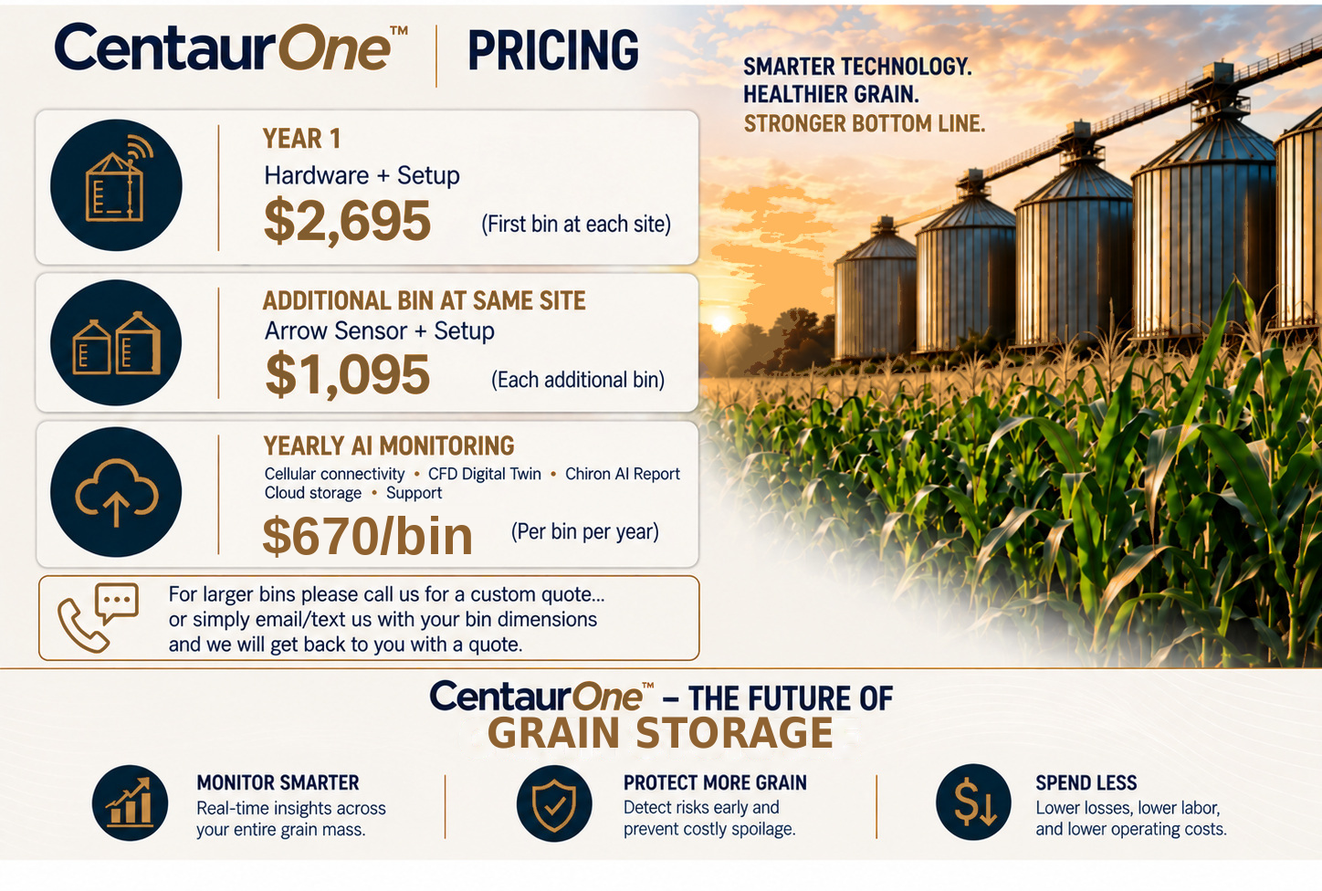
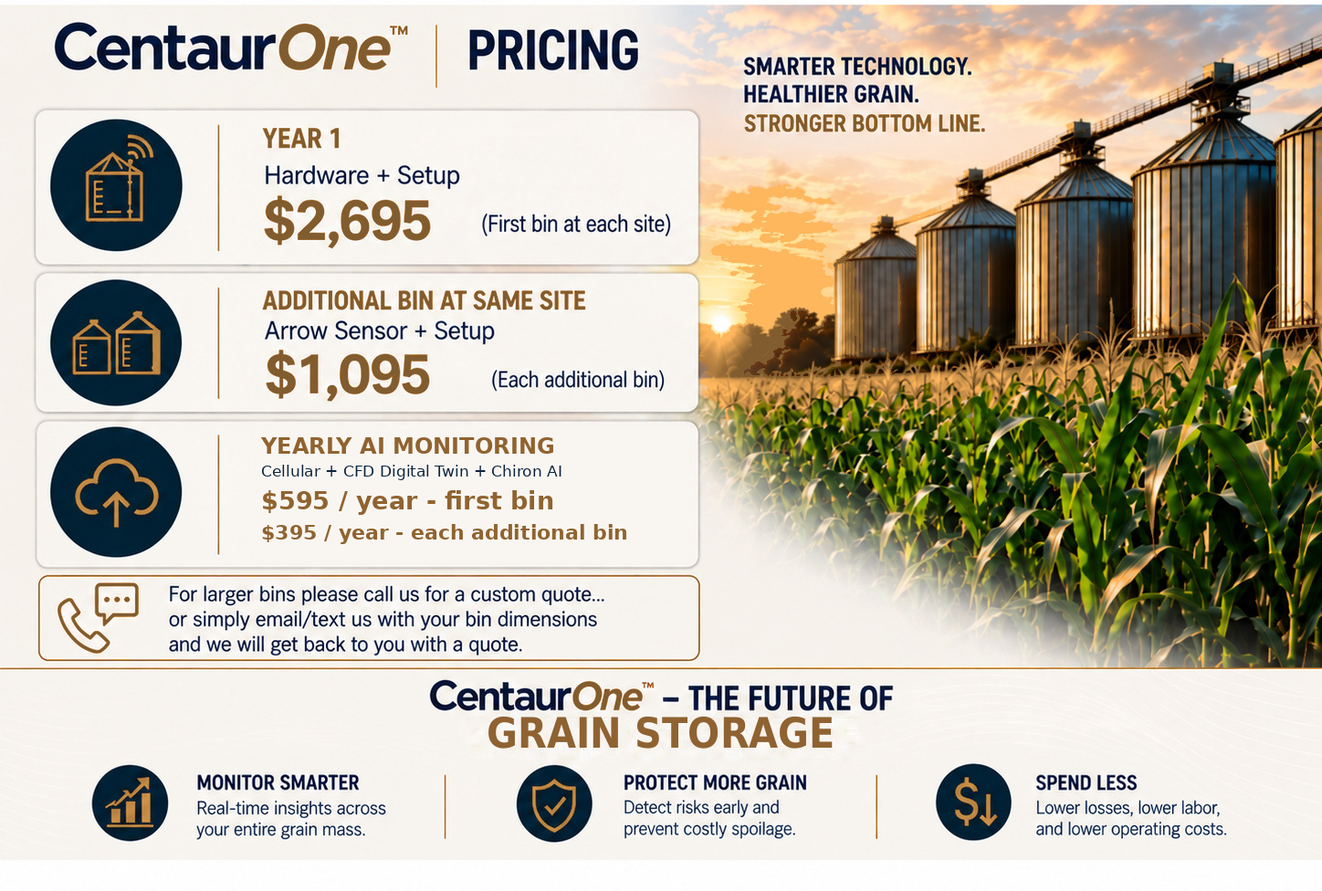
Add files via upload

Changed region(s): [[0.1865, 0.4918, 0.5283, 0.6455]]

diff --git a/grain-monitoring-system-pricing.html b/grain-monitoring-system-pricing.html
@@ -410,6 +410,10 @@ html{scroll-behavior:smooth}#chiron{scroll-margin-top:12px}
 .payback-panel .payback-conclusion{text-align:center;margin:20px 0 12px;font-size:17px}
 .payback-panel .payback-note{font-size:12px;line-height:1.6;color:#526170;margin:16px 0 0}
 @media(max-width:700px){.payback-panel{padding:16px 12px}.payback-bar-row{grid-template-columns:1fr 70px;gap:6px 9px}.payback-name{grid-column:1/-1}.payback-track{grid-column:1}.payback-bar-row strong{grid-column:2}.payback-table{font-size:13px}.payback-table th,.payback-table td{padding:10px 9px}}
+
+
+/* Match payback section width to other pricing sections on desktop and mobile. */
+main > .payback-explanation { width:100%; max-width:1120px; box-sizing:border-box; margin-left:auto; margin-right:auto; }
 </style>
 <style>.site-nav{display:flex;flex-wrap:wrap;justify-content:center;gap:5px 17px;background:#0b304b;padding:12px 16px;position:relative;z-index:2}.site-nav a{color:#fff;font-weight:700;text-decoration:none;font-size:14px}.site-nav a[aria-current="page"]{color:#ffb46f;text-decoration:underline}.page-intro{max-width:1120px;margin:22px auto;padding:20px 22px;background:white;border-top:5px solid #B88A50;box-sizing:border-box}.page-intro h1{font-size:clamp(24px,3vw,36px);margin:0 0 10px;color:#092a43}.page-intro p{line-height:1.55;margin:8px 0}.page-links{text-align:center;margin:24px auto;padding:18px}.page-links a{display:inline-block;background:#0b304b;color:white;text-decoration:none;padding:12px 20px;margin:5px;border-radius:5px}@media(max-width:700px){header{position:relative}.site-nav{gap:10px 14px}.page-intro{margin:10px 8px;padding:15px}}.brand-one{font-style:italic;}
 </style><style>
@@ -584,15 +588,15 @@ header { position: relative !important; }
 <a href="mailto:brad@centaur.ag">Email</a>
 <a href="grain-monitoring-system-pricing.html#quote-form">Get My Custom Quote</a>
 </div>
-</header><nav aria-label="Main navigation" class="site-nav"><a href="index.html">Home</a><a href="cfd-digital-twin-technology.html">CFD Digital Twin Technology</a><a href="smart-aeration-management.html">Smart Aeration Management</a><a href="chiron-ai-grain-advisor.html">AI Grain Advisor - Chiron</a><a href="arrow-sensor-installation.html">Arrow Sensor &amp; Installation</a><a href="comparing-grain-monitoring-systems.html">Comparing Grain Monitoring Systems</a><a aria-current="page" href="grain-monitoring-system-pricing.html">Pricing &amp; Quote</a><a href="faq.html">FAQ</a></nav><main><section class="page-intro"><h1>System Pricing</h1><p>Centaur<em>One</em>'s pricing structure is designed to make advanced wireless grain bin monitoring technology more affordable by keeping the initial system investment low and spreading more of the system's cost over an annual AI Monitoring subscription.</p><p>This approach allows customers to invest less money upfront while maintaining access to advanced grain monitoring technology.</p><p><strong>As the grain monitoring system cost comparison below demonstrates, even with our annual AI Monitoring subscription, CentaurOne's total cost remains lower every year through Year 10 under the stated assumptions.</strong></p></section><div aria-label="Scrollable detailed graphic" class="centaur-mobile-graphic-viewer" role="region" tabindex="0"><img alt="CentaurOne grain bin monitoring brochure page 9; Arrow sensor, Chiron AI and monitoring for grain bins 50,000 bushels and smaller" class="brochure-page" decoding="async" loading="lazy" src="images/centaurone-grain-monitoring-system-pricing-image-01.png"/></div><section aria-labelledby="cost-heading" class="cost-comparison"><h2 id="cost-heading">Lower Upfront Investment. Lower Cost Through Year 10.</h2><div class="cost-table-wrap"><table><thead><tr><th scope="col">Cost</th><th scope="col">Centaur<em>One</em></th><th scope="col">Comparable Wireless System</th></tr></thead><tbody><tr><td>Initial equipment</td><td>$2,695</td><td>$6,250</td></tr><tr><td>Annual monitoring</td><td>$670</td><td>$400</td></tr><tr class="cost-highlight"><td>5-year total</td><td>$6,045</td><td>$8,250</td></tr><tr class="cost-highlight"><td>10-year total</td><td>$9,395</td><td>$10,250</td></tr></tbody></table></div><div class="cost-highlights"><div><strong>$3,555</strong><span>Lower upfront investment</span></div><div><strong>$2,205</strong><span>Lower 5-year cost</span></div><div><strong>$855</strong><span>Lower 10-year cost</span></div></div><h3 style="text-align:center;color:#B88A50">Cumulative Ownership Cost</h3><svg aria-label="Line chart showing CentaurOne's cumulative cost remains below the comparable wireless system through year ten" class="cost-chart" role="img" viewbox="0 0 760 360"><rect fill="#f9f6f1" height="360" width="760" x="0" y="0"></rect><g id="cost-grid"><line stroke="#ded8d0" stroke-width="1" x1="82" x2="724" y1="290.0" y2="290.0"></line><text fill="#625a55" font-size="13" text-anchor="end" x="73" y="295.0">$0</text><line stroke="#ded8d0" stroke-width="1" x1="82" x2="724" y1="233.2" y2="233.2"></line><text fill="#625a55" font-size="13" text-anchor="end" x="73" y="238.2">$2,500</text><line stroke="#ded8d0" stroke-width="1" x1="82" x2="724" y1="176.4" y2="176.4"></line><text fill="#625a55" font-size="13" text-anchor="end" x="73" y="181.4">$5,000</text><line stroke="#ded8d0" stroke-width="1" x1="82" x2="724" y1="119.5" y2="119.5"></line><text fill="#625a55" font-size="13" text-anchor="end" x="73" y="124.5">$7,500</text><line stroke="#ded8d0" stroke-width="1" x1="82" x2="724" y1="62.7" y2="62.7"></line><text fill="#625a55" font-size="13" text-anchor="end" x="73" y="67.7">$10,000</text><text fill="#625a55" font-size="13" text-anchor="middle" x="82.0" y="310">0</text><text fill="#625a55" font-size="13" text-anchor="middle" x="210.4" y="310">2</text><text fill="#625a55" font-size="13" text-anchor="middle" x="338.8" y="310">4</text><text fill="#625a55" font-size="13" text-anchor="middle" x="467.2" y="310">6</text><text fill="#625a55" font-size="13" text-anchor="middle" x="595.6" y="310">8</text><text fill="#625a55" font-size="13" text-anchor="middle" x="724.0" y="310">10</text></g><polyline fill="none" id="centaur-line" points="82.0,228.8 146.2,213.5 210.4,198.3 274.6,183.1 338.8,167.8 403.0,152.6 467.2,137.4 531.4,122.2 595.6,106.9 659.8,91.7 724.0,76.5" stroke="#90632f" stroke-linejoin="round" stroke-width="4"></polyline><polyline fill="none" id="other-line" points="82.0,148.0 146.2,138.9 210.4,129.8 274.6,120.7 338.8,111.6 403.0,102.5 467.2,93.4 531.4,84.3 595.6,75.2 659.8,66.1 724.0,57.0" stroke="#071d39" stroke-linejoin="round" stroke-width="4"></polyline><g fill="#333" font-size="15"><line stroke="#B88A50" stroke-width="4" x1="175" x2="210" y1="338" y2="338"></line><text x="217" y="343">CentaurOne</text><line stroke="#071d39" stroke-width="4" x1="415" x2="450" y1="338" y2="338"></line><text x="457" y="343">Comparable system</text></g></svg><p class="cost-notes">Competitor pricing is based on publicly available information and is provided for general comparison purposes. Actual equipment and subscription costs may vary. Comparison assumes one bin, unchanged annual pricing, and excludes taxes, installation, repairs, and optional equipment. Equipment configurations and included features may differ.</p></section><section aria-labelledby="payback-heading" class="payback-explanation">
+</header><nav aria-label="Main navigation" class="site-nav"><a href="index.html">Home</a><a href="cfd-digital-twin-technology.html">CFD Digital Twin Technology</a><a href="smart-aeration-management.html">Smart Aeration Management</a><a href="chiron-ai-grain-advisor.html">AI Grain Advisor - Chiron</a><a href="arrow-sensor-installation.html">Arrow Sensor &amp; Installation</a><a href="comparing-grain-monitoring-systems.html">Comparing Grain Monitoring Systems</a><a aria-current="page" href="grain-monitoring-system-pricing.html">Pricing &amp; Quote</a><a href="faq.html">FAQ</a></nav><main><section class="page-intro"><h1>System Pricing</h1><p>Centaur<em>One</em>'s pricing structure is designed to make advanced wireless grain bin monitoring technology more affordable by keeping the initial system investment low and spreading more of the system's cost over an annual AI Monitoring subscription.</p><p>This approach allows customers to invest less money upfront while maintaining access to advanced grain monitoring technology.</p><p><strong>As the grain monitoring system cost comparison below demonstrates, even with our annual AI Monitoring subscription, CentaurOne's total cost remains lower every year through Year 10 under the stated assumptions.</strong></p></section><div aria-label="Scrollable detailed graphic" class="centaur-mobile-graphic-viewer" role="region" tabindex="0"><img alt="CentaurOne pricing graphic, with updated first-bin and additional-bin annual monitoring fees" class="brochure-page" decoding="async" loading="lazy" src="images/centaurone-grain-monitoring-system-pricing-image-01.png"/></div><section aria-labelledby="cost-heading" class="cost-comparison"><h2 id="cost-heading">Lower Upfront Investment. Lower Cost Through Year 10.</h2><div class="cost-table-wrap"><table><thead><tr><th scope="col">Cost</th><th scope="col">Centaur<em>One</em></th><th scope="col">Comparable Wireless System</th></tr></thead><tbody><tr><td>Initial equipment</td><td>$2,695</td><td>$6,250</td></tr><tr><td>Annual monitoring (first bin)</td><td>$595</td><td>$400</td></tr><tr class="cost-highlight"><td>5-year total</td><td>$5,670</td><td>$8,250</td></tr><tr class="cost-highlight"><td>10-year total</td><td>$8,645</td><td>$10,250</td></tr></tbody></table></div><div class="cost-highlights"><div><strong>$3,555</strong><span>Lower upfront investment</span></div><div><strong>$2,580</strong><span>Lower 5-year cost</span></div><div><strong>$1,605</strong><span>Lower 10-year cost</span></div></div><h3 style="text-align:center;color:#B88A50">Cumulative Ownership Cost</h3><svg aria-label="Line chart showing CentaurOne's cumulative cost remains below the comparable wireless system through year ten" class="cost-chart" role="img" viewbox="0 0 760 360"><rect fill="#f9f6f1" height="360" width="760" x="0" y="0"></rect><g id="cost-grid"><line stroke="#ded8d0" stroke-width="1" x1="82" x2="724" y1="290.0" y2="290.0"></line><text fill="#625a55" font-size="13" text-anchor="end" x="73" y="295.0">$0</text><line stroke="#ded8d0" stroke-width="1" x1="82" x2="724" y1="233.2" y2="233.2"></line><text fill="#625a55" font-size="13" text-anchor="end" x="73" y="238.2">$2,500</text><line stroke="#ded8d0" stroke-width="1" x1="82" x2="724" y1="176.4" y2="176.4"></line><text fill="#625a55" font-size="13" text-anchor="end" x="73" y="181.4">$5,000</text><line stroke="#ded8d0" stroke-width="1" x1="82" x2="724" y1="119.5" y2="119.5"></line><text fill="#625a55" font-size="13" text-anchor="end" x="73" y="124.5">$7,500</text><line stroke="#ded8d0" stroke-width="1" x1="82" x2="724" y1="62.7" y2="62.7"></line><text fill="#625a55" font-size="13" text-anchor="end" x="73" y="67.7">$10,000</text><text fill="#625a55" font-size="13" text-anchor="middle" x="82.0" y="310">0</text><text fill="#625a55" font-size="13" text-anchor="middle" x="210.4" y="310">2</text><text fill="#625a55" font-size="13" text-anchor="middle" x="338.8" y="310">4</text><text fill="#625a55" font-size="13" text-anchor="middle" x="467.2" y="310">6</text><text fill="#625a55" font-size="13" text-anchor="middle" x="595.6" y="310">8</text><text fill="#625a55" font-size="13" text-anchor="middle" x="724.0" y="310">10</text></g><polyline fill="none" id="centaur-line" points="82.0,228.8 146.2,215.2 210.4,201.7 274.6,188.2 338.8,174.7 403.0,161.1 467.2,147.6 531.4,134.1 595.6,120.6 659.8,107.0 724.0,93.5" stroke="#90632f" stroke-linejoin="round" stroke-width="4"></polyline><polyline fill="none" id="other-line" points="82.0,148.0 146.2,138.9 210.4,129.8 274.6,120.7 338.8,111.6 403.0,102.5 467.2,93.4 531.4,84.3 595.6,75.2 659.8,66.1 724.0,57.0" stroke="#071d39" stroke-linejoin="round" stroke-width="4"></polyline><g fill="#333" font-size="15"><line stroke="#B88A50" stroke-width="4" x1="175" x2="210" y1="338" y2="338"></line><text x="217" y="343">CentaurOne</text><line stroke="#071d39" stroke-width="4" x1="415" x2="450" y1="338" y2="338"></line><text x="457" y="343">Comparable system</text></g></svg><p class="cost-notes">Competitor pricing is based on publicly available information and is provided for general comparison purposes. Actual equipment and subscription costs may vary. Comparison assumes one bin, unchanged annual pricing, and excludes taxes, installation, repairs, and optional equipment. Equipment configurations and included features may differ.</p></section><section class="cost-comparison" aria-labelledby="six-bin-heading"><h2 id="six-bin-heading">More Bins. Lower Annual Cost Per Additional Bin.</h2><p style="text-align:center">Six-bin example: one first bin plus five additional bins at the same site.</p><div class="cost-table-wrap"><table><thead><tr><th>Cost</th><th>Previous Pricing</th><th>New Pricing</th></tr></thead><tbody><tr><td>First bin equipment and setup</td><td>$2,695</td><td>$2,695</td></tr><tr><td>Five additional bins (5 × $1,095)</td><td>$5,475</td><td>$5,475</td></tr><tr><td>Total equipment and setup</td><td>$8,170</td><td>$8,170</td></tr><tr><td>First bin annual AI monitoring</td><td>$670</td><td>$595</td></tr><tr><td>Five additional bins, annual AI monitoring</td><td>$3,350 (5 × $670)</td><td>$1,975 (5 × $395)</td></tr><tr class="cost-highlight"><td>Annual AI monitoring, six bins</td><td>$4,020</td><td>$2,570</td></tr><tr class="cost-highlight"><td>10-year equipment + monitoring</td><td>$48,370</td><td>$33,870</td></tr></tbody></table></div><div class="cost-highlights"><div><strong>$1,450</strong><span>Lower annual monitoring cost</span></div><div><strong>$14,500</strong><span>Lower 10-year cost</span></div><div><strong>$395</strong><span>Annual monitoring for each additional bin</span></div></div><p style="font-size:13px;text-align:center">Illustrative six-bin pricing at one site. Ten-year totals assume unchanged fees and ten annual monitoring payments; exclude taxes, repairs, optional equipment, and financing.</p></section><section aria-labelledby="payback-heading" class="payback-explanation">
 <h2 id="payback-heading">Lower Investment. Faster Potential Payback.</h2>
 <p>Better grain management can create value through reduced spoilage and shrink, more efficient fan operation, and fewer hours spent checking grain. Because Centaur<em>One</em> requires a smaller initial investment, comparable savings can recover its cost sooner.</p>
 <div class="payback-panel"><h3>What Could $2,000 in Annual Savings Mean?</h3>
 <p class="payback-subtitle">Illustrative savings breakdown for one 30,000-bushel bin. The payback chart assumes both Centaur<em>One</em> and competing systems deliver the same $2,000 in annual operating savings.</p>
-<div class="payback-table-wrap"><table class="payback-table"><thead><tr><th>Source of potential savings</th><th>Illustrative assumption</th><th>Annual savings</th></tr></thead><tbody><tr><td>Reduced grain spoilage</td><td>0.5% of 30,000 bu at $4.50/bu</td><td>$675</td></tr><tr><td>Reduced grain shrink</td><td>0.25% of 30,000 bu at $4.50/bu</td><td>$338</td></tr><tr><td>Improved fan efficiency</td><td>20 kW × 1,000 hrs × 20% × $0.10/kWh</td><td>$400</td></tr><tr><td>Reduced labor</td><td>Approximately 19.6 hours × $30/hour</td><td>$587</td></tr><tr class="payback-highlight"><td>Total potential annual savings</td><td>Illustrative 30,000-bushel bin</td><td>$2,000</td></tr></tbody></table></div>
+<div class="payback-table-wrap"><table class="payback-table"><thead><tr><th>Source of potential savings</th><th>Illustrative assumption</th><th>Annual savings</th></tr></thead><tbody><tr><td>Reduced grain spoilage</td><td>0.5% of 30,000 bu at $4.50/bu</td><td>$675</td></tr><tr><td>Reduced grain shrink</td><td>0.25% of 30,000 bu at $4.50/bu</td><td>$338</td></tr><tr><td>Improved fan efficiency</td><td>20 kW × 1,000 hrs × 20% × $0.10/kWh</td><td>$400</td></tr><tr><td>Reduced labor</td><td>Approximately 19 hours 34 minutes × $30/hour</td><td>$587</td></tr><tr class="payback-highlight"><td>Total potential annual savings</td><td>Illustrative 30,000-bushel bin</td><td>$2,000</td></tr></tbody></table></div>
 <h3 class="payback-chart-title">Estimated Years to Recover the Investment</h3>
-<div aria-label="Estimated simple payback: CentaurOne 2.0 years, comparable wireless system 3.9 years. Shorter is better." class="payback-bars" role="img">
-<div class="payback-bar-row"><span class="payback-name">Centaur<em>One</em></span><div class="payback-track"><div class="payback-fill centaur" style="width:51.9%"></div></div><strong>2.0 years</strong></div>
+<div aria-label="Estimated simple payback: CentaurOne 1.9 years, comparable wireless system 3.9 years. Shorter is better." class="payback-bars" role="img">
+<div class="payback-bar-row"><span class="payback-name">Centaur<em>One</em></span><div class="payback-track"><div class="payback-fill centaur" style="width:49.2%"></div></div><strong>1.9 years</strong></div>
 <div class="payback-bar-row"><span class="payback-name">Comparable wireless system</span><div class="payback-track"><div class="payback-fill competitor" style="width:100%"></div></div><strong>3.9 years</strong></div>
 </div>
 <p class="payback-conclusion"><strong>With the same assumed annual savings, Centaur<em>One</em> could recover its investment nearly two years sooner.</strong></p>

diff --git a/faq.html b/faq.html
@@ -454,7 +454,7 @@ header { position: relative !important; }
 <a href="mailto:brad@centaur.ag">Email</a>
 <a href="grain-monitoring-system-pricing.html#quote-form">Get My Custom Quote</a>
 </div>
-</header><nav aria-label="Main navigation" class="site-nav"><a href="index.html">Home</a><a href="cfd-digital-twin-technology.html">CFD Digital Twin Technology</a><a href="smart-aeration-management.html">Smart Aeration Management</a><a href="chiron-ai-grain-advisor.html">AI Grain Advisor - Chiron</a><a href="arrow-sensor-installation.html">Arrow Sensor &amp; Installation</a><a href="comparing-grain-monitoring-systems.html">Comparing Grain Monitoring Systems</a><a aria-current="page" href="grain-monitoring-system-pricing.html">Pricing &amp; Quote</a><a href="faq.html">FAQ</a></nav><main><section class="faq-page"><h1>Centaur<em>One</em> Frequently Asked Questions</h1><h2>What is the Centaur<em>One</em> grain monitoring system?</h2><p>CentaurOne is an advanced wireless AI grain bin monitoring system that measures actual grain moisture, temperature and CO₂ using the externally mounted Arrow sensor. Its CFD Digital Twin technology and Chiron AI grain advisor help farmers monitor, analyze and predict grain conditions throughout their storage bins.</p><p>Unlike conventional grain monitoring systems that rely on multiple temperature sensors suspended on cables inside the grain, Centaur<em>One</em> uses a single externally mounted Arrow sensor for bins up to 50,000 bushels.</p><h2>Can Centaur<em>One</em> be installed when my grain bin is full?</h2><p>Yes. Centaur<em>One</em>'s wireless Arrow sensor mounts on the outside wall of your grain bin, with a tubular probe extending into the stored grain. Unlike traditional grain temperature cable systems that typically require installation before the bin is filled, the Arrow sensor can be installed even when your bin is full.</p><p>There's no need to wait until the next unloading cycle.</p><h2>How does Centaur<em>One</em> monitor grain temperature and moisture without traditional sensor cables?</h2><p>Centaur<em>One</em> uses an externally mounted sensor, called the Arrow, to collect real-time grain condition measurements, including moisture, temperature, and CO₂.</p><p>Digital Twin technology combines these real-time sensor readings, weather conditions, and grain characteristics to calculate estimated temperature and moisture conditions throughout the grain mass.</p><p>This provides whole-bin predictive visibility without requiring traditional temperature monitoring cables.</p><h2>How is Centaur<em>One</em> different from conventional grain temperature cable systems?</h2><p>Traditional grain monitoring systems use multiple cables with physical sensors positioned at various locations inside the grain. These cables typically must be installed when the grain bin is empty.</p><p>Centaur<em>One</em> uses real-time wireless Arrow sensor data and Digital Twin technology to model conditions throughout the bin, including areas without physical sensors.</p><p>This approach reduces the amount of hardware installed inside the bin while providing farmers with predictive grain management information.</p><h2>Can Centaur<em>One</em> automatically control my grain bin aeration fans?</h2><p>Yes. Centaur<em>One</em> supports remote and automated aeration fan management.</p><p>Its technology evaluates grain conditions and outside weather to help determine when fan operation can improve stored grain conditions.</p><p>Farmers can also monitor and control connected fans remotely through the Centaur<em>One</em> dashboard.</p><h2>What size grain bins can Centaur<em>One</em> monitor?</h2><p>Centaur<em>One</em> is primarily designed for farm grain bins up to 50,000 bushels, typically requiring just one Arrow sensor per bin.</p><p>Larger bins and commercial grain storage applications may require additional sensors or customized system configurations.</p><p>Contact Centaur<em>One</em> for a custom quote for larger installations.</p><h2>How long does Centaur<em>One</em> installation take?</h2><p>Centaur<em>One</em> is designed for straightforward installation, typically requiring approximately 15–30 minutes per bin for the sensor installation.</p><p>The Arrow sensor mounts externally on the grain bin wall, eliminating the need to install traditional temperature cables inside the grain.</p><p>Gateway installation, electrical connections, and fan control setup may require additional time.</p><h2>Can CentaurOne predict future grain conditions?</h2><p>Yes. CentaurOne uses CFD Digital Twin technology, real-time Arrow sensor measurements, weather data and grain characteristics to forecast grain conditions up to six months into the future. Chiron AI helps farmers interpret these predictions, identify potential storage risks and make informed grain management decisions. Forecasts are estimates, not guarantees of future conditions.</p><h2>How much does Centaur<em>One</em> cost?</h2><p>Centaur<em>One</em> offers a straightforward pricing structure:</p><ul><li>First bin at a site: $2,695 for hardware and setup.</li><li>Additional bins at the same site: $1,095 each for hardware and setup.</li><li>Annual AI monitoring subscription: $670 per bin.</li><li>Additional Arrow sensors, when required: $995 each.</li></ul><p>For a 30,000-bushel grain bin, the $670 annual monitoring subscription represents approximately 2.23 cents per bushel per year.</p><p>Visit our <a href="grain-monitoring-system-pricing.html">Pricing page</a> for additional information or to request a quote.</p></section></main>
+</header><nav aria-label="Main navigation" class="site-nav"><a href="index.html">Home</a><a href="cfd-digital-twin-technology.html">CFD Digital Twin Technology</a><a href="smart-aeration-management.html">Smart Aeration Management</a><a href="chiron-ai-grain-advisor.html">AI Grain Advisor - Chiron</a><a href="arrow-sensor-installation.html">Arrow Sensor &amp; Installation</a><a href="comparing-grain-monitoring-systems.html">Comparing Grain Monitoring Systems</a><a aria-current="page" href="grain-monitoring-system-pricing.html">Pricing &amp; Quote</a><a href="faq.html">FAQ</a></nav><main><section class="faq-page"><h1>Centaur<em>One</em> Frequently Asked Questions</h1><h2>What is the Centaur<em>One</em> grain monitoring system?</h2><p>CentaurOne is an advanced wireless AI grain bin monitoring system that measures actual grain moisture, temperature and CO₂ using the externally mounted Arrow sensor. Its CFD Digital Twin technology and Chiron AI grain advisor help farmers monitor, analyze and predict grain conditions throughout their storage bins.</p><p>Unlike conventional grain monitoring systems that rely on multiple temperature sensors suspended on cables inside the grain, Centaur<em>One</em> uses a single externally mounted Arrow sensor for bins up to 50,000 bushels.</p><h2>Can Centaur<em>One</em> be installed when my grain bin is full?</h2><p>Yes. Centaur<em>One</em>'s wireless Arrow sensor mounts on the outside wall of your grain bin, with a tubular probe extending into the stored grain. Unlike traditional grain temperature cable systems that typically require installation before the bin is filled, the Arrow sensor can be installed even when your bin is full.</p><p>There's no need to wait until the next unloading cycle.</p><h2>How does Centaur<em>One</em> monitor grain temperature and moisture without traditional sensor cables?</h2><p>Centaur<em>One</em> uses an externally mounted sensor, called the Arrow, to collect real-time grain condition measurements, including moisture, temperature, and CO₂.</p><p>Digital Twin technology combines these real-time sensor readings, weather conditions, and grain characteristics to calculate estimated temperature and moisture conditions throughout the grain mass.</p><p>This provides whole-bin predictive visibility without requiring traditional temperature monitoring cables.</p><h2>How is Centaur<em>One</em> different from conventional grain temperature cable systems?</h2><p>Traditional grain monitoring systems use multiple cables with physical sensors positioned at various locations inside the grain. These cables typically must be installed when the grain bin is empty.</p><p>Centaur<em>One</em> uses real-time wireless Arrow sensor data and Digital Twin technology to model conditions throughout the bin, including areas without physical sensors.</p><p>This approach reduces the amount of hardware installed inside the bin while providing farmers with predictive grain management information.</p><h2>Can Centaur<em>One</em> automatically control my grain bin aeration fans?</h2><p>Yes. Centaur<em>One</em> supports remote and automated aeration fan management.</p><p>Its technology evaluates grain conditions and outside weather to help determine when fan operation can improve stored grain conditions.</p><p>Farmers can also monitor and control connected fans remotely through the Centaur<em>One</em> dashboard.</p><h2>What size grain bins can Centaur<em>One</em> monitor?</h2><p>Centaur<em>One</em> is primarily designed for farm grain bins up to 50,000 bushels, typically requiring just one Arrow sensor per bin.</p><p>Larger bins and commercial grain storage applications may require additional sensors or customized system configurations.</p><p>Contact Centaur<em>One</em> for a custom quote for larger installations.</p><h2>How long does Centaur<em>One</em> installation take?</h2><p>Centaur<em>One</em> is designed for straightforward installation, typically requiring approximately 15–30 minutes per bin for the sensor installation.</p><p>The Arrow sensor mounts externally on the grain bin wall, eliminating the need to install traditional temperature cables inside the grain.</p><p>Gateway installation, electrical connections, and fan control setup may require additional time.</p><h2>Can CentaurOne predict future grain conditions?</h2><p>Yes. CentaurOne uses CFD Digital Twin technology, real-time Arrow sensor measurements, weather data and grain characteristics to forecast grain conditions up to six months into the future. Chiron AI helps farmers interpret these predictions, identify potential storage risks and make informed grain management decisions. Forecasts are estimates, not guarantees of future conditions.</p><h2>How much does Centaur<em>One</em> cost?</h2><p>Centaur<em>One</em> offers a straightforward pricing structure:</p><ul><li>First bin at a site: $2,695 for hardware and setup.</li><li>Additional bins at the same site: $1,095 each for hardware and setup.</li><li>Annual AI monitoring subscription: $595 per year for the first bin at a site, and $395 per year for each additional bin at the same site.</li><li>Additional Arrow sensors, when required: $995 each.</li></ul><p>For a 30,000-bushel grain bin, the $595 first-bin annual monitoring subscription represents approximately 1.98 cents per bushel per year.</p><p>Visit our <a href="grain-monitoring-system-pricing.html">Pricing page</a> for additional information or to request a quote.</p></section></main>
 <footer aria-label="Contact CentaurOne" class="centaur-contact-footer">
 <p class="contact-heading">Contact Us:</p>
 <div class="contact-links">

diff --git a/index.html b/index.html
@@ -25,7 +25,7 @@
 <meta content="images/centaurone-embedded-01.jpg" property="og:image"/>
 <meta content="summary_large_image" name="twitter:card"/>
 <script type="application/ld+json">{"@context":"https://schema.org","@type":"WebSite","name":"CentaurOne","url":"https://www.centaurone-usa.com/","description":"CentaurOne wireless AI grain monitoring system for farm grain bins, with one Arrow wireless grain monitoring sensor per bin up to 50,000 bushels in the standard configuration. CentaurOne can also be configured for larger grain bins and commercial grain storage applications."}</script>
-<script type="application/ld+json">{"@context":"https://schema.org","@type":"Product","name":"CentaurOne AI Grain Monitoring System","description":"CentaurOne wireless AI grain monitoring and management system. The standard configuration uses one externally mounted Arrow wireless grain monitoring sensor per grain bin up to 50,000 bushels. CentaurOne can also be configured for larger grain bins and commercial grain storage applications, with additional sensors and custom configurations as appropriate. Combines sensor measurements with CFD Digital Twin grain condition modeling, temperature, moisture and CO2 monitoring, Chiron AI grain management guidance, and remote or automated grain bin fan control.","brand":{"@type":"Brand","name":"CentaurOne"},"url":"https://www.centaurone-usa.com/","category":"Wireless grain monitoring and management system","offers":{"@type":"Offer","url":"https://www.centaurone-usa.com/","priceCurrency":"USD","price":"3365.00","description":"First-year total for the first grain bin: $2,695 one-time equipment and setup plus $670 required first-year monitoring and AI service. Monitoring and AI service renews at $670 per bin annually.","availability":"https://schema.org/InStock"},"image":"images/centaurone-embedded-01.jpg","additionalProperty":[{"@type":"PropertyValue","name":"Standard sensor configuration","value":"One externally mounted Arrow wireless grain monitoring sensor per grain bin up to 50,000 bushels"},{"@type":"PropertyValue","name":"Larger storage applications","value":"CentaurOne configurations available for larger grain bins and commercial grain storage; additional sensors or custom configuration may be required"},{"@type":"PropertyValue","name":"Grain condition modeling","value":"CFD Digital Twin estimates conditions throughout the grain mass"},{"@type":"PropertyValue","name":"Monitored conditions","value":"Temperature, moisture and carbon dioxide (CO2)"},{"@type":"PropertyValue","name":"Aeration management","value":"Remote and automated grain bin fan control"},{"@type":"PropertyValue","name":"AI advisor","value":"Chiron AI grain management advisor"},{"@type":"PropertyValue","name":"Connectivity","value":"Wireless connectivity via Wi-Fi or cellular gateway"}]}</script>
+<script type="application/ld+json">{"@context":"https://schema.org","@type":"Product","name":"CentaurOne AI Grain Monitoring System","description":"CentaurOne wireless AI grain monitoring and management system. The standard configuration uses one externally mounted Arrow wireless grain monitoring sensor per grain bin up to 50,000 bushels. CentaurOne can also be configured for larger grain bins and commercial grain storage applications, with additional sensors and custom configurations as appropriate. Combines sensor measurements with CFD Digital Twin grain condition modeling, temperature, moisture and CO2 monitoring, Chiron AI grain management guidance, and remote or automated grain bin fan control.","brand":{"@type":"Brand","name":"CentaurOne"},"url":"https://www.centaurone-usa.com/","category":"Wireless grain monitoring and management system","offers":{"@type":"Offer","url":"https://www.centaurone-usa.com/","priceCurrency":"USD","price":"3290.00","description":"First-year total for the first grain bin: $2,695 one-time equipment and setup plus $595 required first-year monitoring and AI service. Monitoring and AI service renews at $595 for the first bin and $395 for each additional bin at the same site annually.","availability":"https://schema.org/InStock"},"image":"images/centaurone-embedded-01.jpg","additionalProperty":[{"@type":"PropertyValue","name":"Standard sensor configuration","value":"One externally mounted Arrow wireless grain monitoring sensor per grain bin up to 50,000 bushels"},{"@type":"PropertyValue","name":"Larger storage applications","value":"CentaurOne configurations available for larger grain bins and commercial grain storage; additional sensors or custom configuration may be required"},{"@type":"PropertyValue","name":"Grain condition modeling","value":"CFD Digital Twin estimates conditions throughout the grain mass"},{"@type":"PropertyValue","name":"Monitored conditions","value":"Temperature, moisture and carbon dioxide (CO2)"},{"@type":"PropertyValue","name":"Aeration management","value":"Remote and automated grain bin fan control"},{"@type":"PropertyValue","name":"AI advisor","value":"Chiron AI grain management advisor"},{"@type":"PropertyValue","name":"Connectivity","value":"Wireless connectivity via Wi-Fi or cellular gateway"}]}</script>
 <style>
     body {
       margin: 0;
